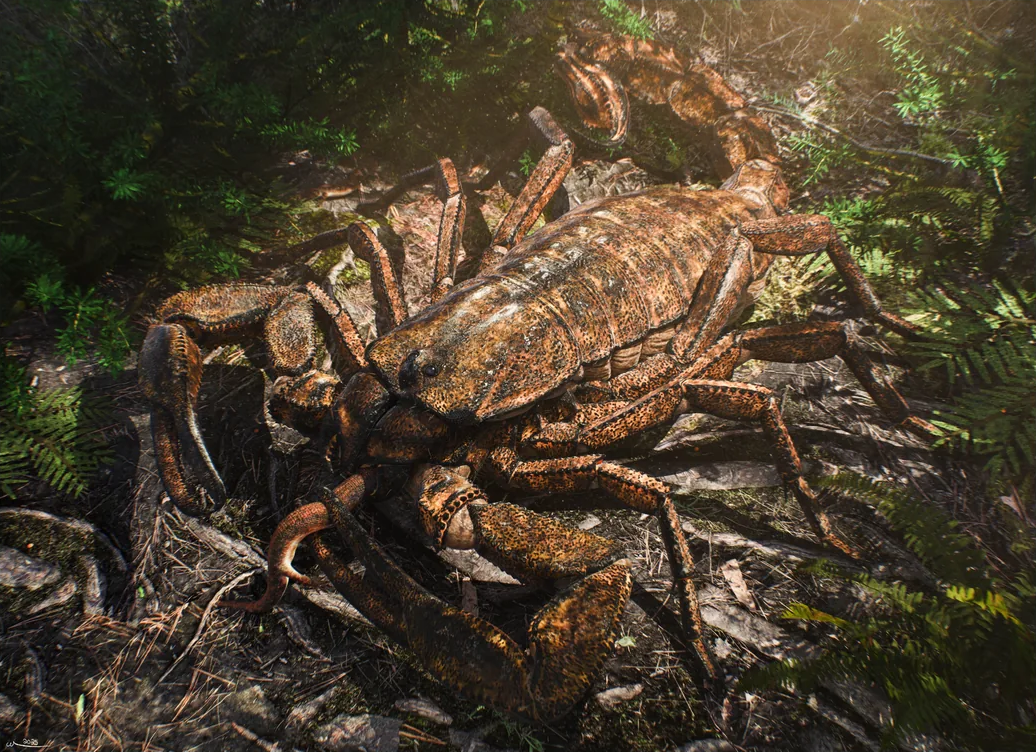
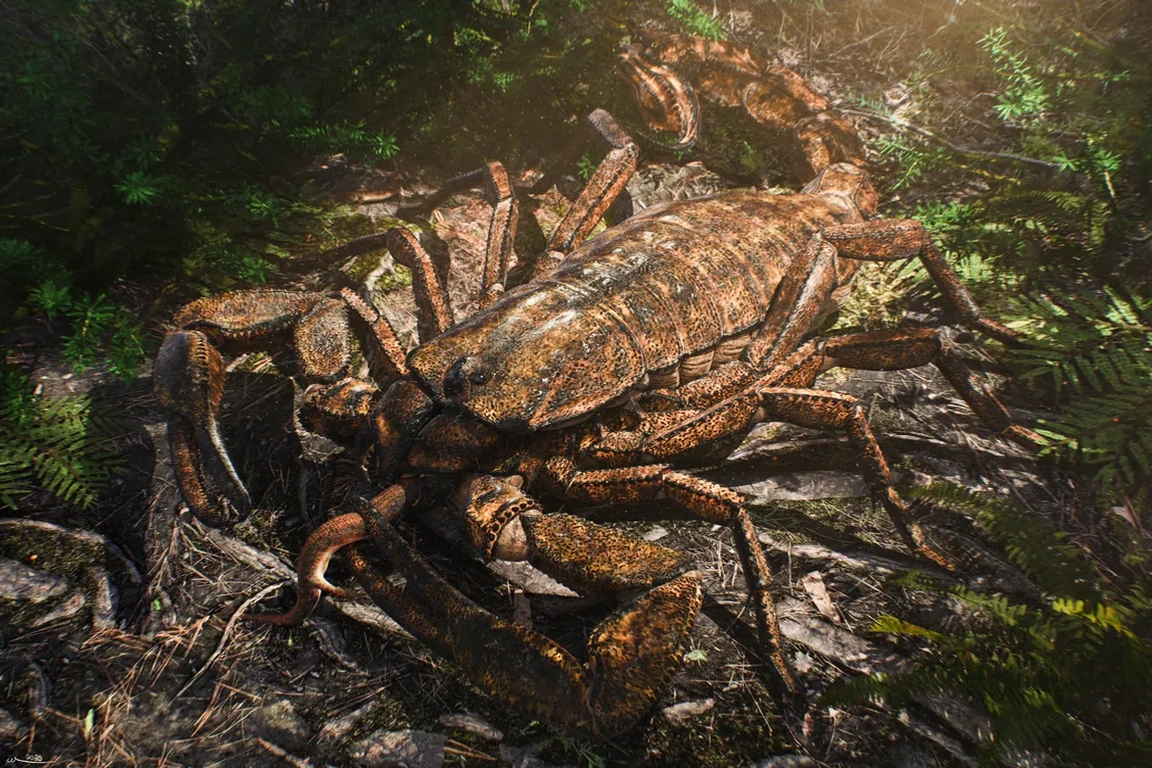
Restore uniform image frames and use selected frontal Edestus; build 1000008

diff --git a/app.js b/app.js
@@ -541,20 +541,12 @@
     });
     $('favorites-count').textContent = state.favorites.size;
   }
-  // Preserve the complete approved crops without letterboxing in 3:2 frames.
-  function imageFrameStyle(dino) {
-    const ratios = {
-      'pulmonoscorpius-kirktonensis': '1036 / 752',
-      'arthropleura-armata': '996 / 752'
-    };
-    return ratios[dino.id] ? '--picture-ratio: ' + ratios[dino.id] : '';
-  }
   function renderGallery() {
     const visible = filteredDinosaurs(dinosaurs, state);
     $('gallery').innerHTML = visible.map((dino, index) => {
       const text = copy(dino);
       return `<article class="dino-card">
-          <div class="card-picture" style="${imageFrameStyle(dino)}"><img class="${atlasImageClass(dino)}" src="${escapeHtml(dino.image.src)}" alt="${escapeHtml(localized(dino.image.alt))}" width="1536" height="1024" ${index > 1 ? 'loading="lazy"' : ''} decoding="async"></div>
+          <div class="card-picture"><img class="${atlasImageClass(dino)}" src="${escapeHtml(dino.image.src)}" alt="${escapeHtml(localized(dino.image.alt))}" width="1536" height="1024" ${index > 1 ? 'loading="lazy"' : ''} decoding="async"></div>
           <div class="card-body"><div class="card-title-row"><h3><a class="card-link" id="card-${dino.id}" href="#dinosaurus/${dino.id}">${escapeHtml(text.displayName)}</a></h3>${favoriteButton(dino, 'card-favorite')}</div><p class="scientific-name">${escapeHtml(dino.scientificName)}</p>
           <div class="card-meta"><span class="period-tag">${PERIODS[dino.period]}</span><span class="animal-kind">${CATEGORY_LABELS[categoryOf(dino)]}</span><span>${escapeHtml(text.ageLabel)}</span></div>
           <p class="card-location">${escapeHtml(text.location)}</p><p class="card-summary">${escapeHtml(text.cardSummary)}</p><span class="card-open">Prozkoumat →</span></div>
@@ -743,7 +735,7 @@
     const question = quiz.questions[quiz.index];
     const dino = byId.get(question.answerId);
     $('quiz-content').innerHTML = `<p class="quiz-progress-label">Otázka ${quiz.index + 1} z ${quiz.questions.length} · Bez časového limitu</p><progress class="quiz-progress" max="${quiz.questions.length}" value="${quiz.index}" aria-label="Dokončené otázky"></progress>
-      <div class="quiz-picture" style="${imageFrameStyle(dino)}"><img data-image-viewer src="${escapeHtml(dino.image.src)}" width="1536" height="1024" alt="Pracovní rekonstrukce pravěkého zvířete. Vyber jeho jméno z možností pod obrázkem.">${imageZoomButton()}</div>
+      <div class="quiz-picture"><img data-image-viewer src="${escapeHtml(dino.image.src)}" width="1536" height="1024" alt="Pracovní rekonstrukce pravěkého zvířete. Vyber jeho jméno z možností pod obrázkem.">${imageZoomButton()}</div>
       <button id="quiz-hint" type="button" class="button button-quiet hint-button" aria-expanded="${quiz.hintRevealed}" aria-controls="quiz-hint-text">${quiz.hintRevealed ? 'Skrýt nápovědu' : 'Potřebuji nápovědu'}</button><p id="quiz-hint-text" class="hint-text" ${quiz.hintRevealed ? '' : 'hidden'}>${escapeHtml(copy(dino).quizHint)}</p>
       <div class="quiz-answers" role="group" aria-label="Vyber jméno zvířete">${question.optionIds.map((id, index) => `<button type="button" class="quiz-answer" data-answer="${id}"><span class="answer-letter" aria-hidden="true">${String.fromCharCode(65 + index)}</span><span class="answer-name">${escapeHtml(copy(byId.get(id)).displayName)}</span></button>`).join('')}</div>
       <div class="quiz-feedback" id="quiz-feedback" role="status" aria-live="polite" aria-atomic="true"></div>

diff --git a/style.css b/style.css
@@ -111,7 +111,7 @@ main { min-height: 320px; }
 .card-link::after { content: ''; position: absolute; inset: 0; border-radius: 20px; }
 .card-link:focus-visible { outline: none; }
 .card-link:focus-visible::after { outline: 3px solid var(--accent); outline-offset: -5px; }
-.card-picture { aspect-ratio: var(--picture-ratio, 3 / 2); overflow: hidden; background: var(--image-bg); }
+.card-picture { aspect-ratio: 3 / 2; overflow: hidden; background: var(--image-bg); }
 .card-picture img { width: 100%; height: 100%; object-fit: contain; }
 .card-body { padding: 18px 19px 20px; }
 .card-title-row { display: flex; align-items: flex-start; justify-content: space-between; gap: 12px; margin-bottom: 4px; }
@@ -221,7 +221,7 @@ figcaption { font-size: .76rem; color: var(--muted); margin-top: 9px; }
 .quiz-progress::-webkit-progress-bar { background: var(--soft); }
 .quiz-progress::-webkit-progress-value { background: var(--accent); }
 .quiz-progress::-moz-progress-bar { background: var(--accent); }
-.quiz-picture { position: relative; aspect-ratio: var(--picture-ratio, 3 / 2); min-height: 0; border: 1px solid var(--line); border-radius: 20px; overflow: hidden; background: var(--image-bg); margin-bottom: 17px; }
+.quiz-picture { position: relative; aspect-ratio: 3 / 2; min-height: 0; border: 1px solid var(--line); border-radius: 20px; overflow: hidden; background: var(--image-bg); margin-bottom: 17px; }
 .quiz-picture img { position: absolute; inset: 0; display: block; width: 100%; height: 100%; min-height: 0; object-fit: contain; }
 .quiz-answers { display: grid; gap: 10px; }
 .quiz-answer { display: flex; align-items: center; gap: 12px; min-height: 56px; padding: 13px 16px; font-size: 1rem; text-align: left; background: var(--surface); color: var(--text); border: 1px solid var(--line); border-radius: 13px; }

diff --git a/docs/VISUAL-REFRESH-BATCH08.md b/docs/VISUAL-REFRESH-BATCH08.md
@@ -1,0 +1,23 @@
+# Dávka 08 — jednotné rámečky a vybraný čelní Edestus
+
+27. října 2026, pouze `feature/paleozoic-1.0.0`. Základ `33a10d548c58520db0eff29fa11dbf25cfb7122d`, kandidát build **1000008**.
+
+## Přijatý směr
+
+Uživatel odmítl vyšší rámečky z 1000007 i Edesta s čepelemi působícími posunutě do strany. Po náhledech požádal u dvou původních ilustrací jen změnit poměr/velikost. Výslovně byl upozorněn na mírné vodorovné roztažení. Následně vybral čelní pohled Edesta, který zdůrazňuje neobvyklý chrup.
+
+- Pulmonoscorpius: aktivní původní ořez 1036 × 752 přepočten na 1152 × 768.
+- Arthropleura: aktivní původní ořez 996 × 752 přepočten na 1152 × 768.
+- Oba: Lanczos a WebP quality 94; bez AI generování, doplnění pozadí či dalšího ořezu. Jde o změnu proporcí, nikoli bezeztrátovou změnu. Celá původní kompozice a autorské podpisy zůstávají v obraze. Kredity Prehistorica CM, CC BY 4.0 a odkazy zachované, popis úprav aktualizován.
+- Edestus: uživatelem vybraný čelní AI návrh `exec-d6ec8ef1-be4d-4515-b5de-5f98ac95a8c2.png`, převeden z 1536 × 1024 na 1152 × 768. Středové čepele jsou zvýrazněné, ale přesné ztvárnění jednotlivých korunek a geometrie není vědecky potvrzené. Vizuální výběr uživatele se nerovná vědeckému ověření. Nejistota výslovně uvedena v obrazové poznámce. Nový návrh se v tomto kroku negeneroval.
+- Odstraněny výjimky poměru v aplikaci; karty a kvíz opět jednotně 3:2.
+
+## Zachování obsahu
+
+Všechny tři předchozí aktivní obrazy zálohovány v `docs/backups/visual-refresh-08/images/`, vedle jsou původní metadata, hashe 112 obrazů a kontrolní otisk všech neobrazových údajů. Zůstává 112 druhů, všechna ID, texty, předčítání a ostatní funkce. 109 dalších obrazů beze změny. V databázi upraveny pouze tři obrazové poznámky. Výstupní otisky: `docs/visual-refresh-08.json`.
+
+## Ověření
+
+Lokální `npm test` prošel. Kontroly nově ověřují zálohy, 109 nezměněných obrazů a všechny neobrazové údaje. UI kontroly obou karet a obou zvířat v kvízu nyní očekávají společný poměr 3:2. Finální CI, podepsané APK a zkouška na telefonu zatím čekají.
+
+Další práce: sedm permských oprav (Dimetrodon, Inostrancevia, Scutosaurus, Mesosaurus, Diplocaulus, Helicoprion, Estemmenosuchus), dávky nejvýše 5 + 2, jednotlivé kontroly a zálohy. Neslučovat do main.

diff --git a/PROJECT_STATUS.md b/PROJECT_STATUS.md
@@ -1,3 +1,5 @@
+> **27. 10. 2026 — dávka 08 / kandidát 1000008:** Uživatel vybral čelního Edesta. Pulmonoscorpius a Arthropleura jsou původní ilustrace pouze přepočítané na 1152 × 768, bez generování; jednotné rámečky 3:2 obnoveny. Zálohy vytvořeny, lokální testy prošly. CI a podepsané APK zatím nepotvrzené. Sedm permských náhrad stále zbývá. [Předání](docs/VISUAL-REFRESH-BATCH08.md). Neslučovat do main.
+
 > **Další upřesnění 27. 10. 2026:** Uživatel neviděl zobrazené náhledy. Žádá u Pulmonoscorpia a Arthropleury jen změnu poměru/velikosti, u Edesta opravit čelist. Připravené pracovní resamplované kopie původních aktivních WebP na 1152×768 pomocí Lanczos, bez generování, doplňování pozadí či ořezu (vodorovná změna proporcí oproti původním poměrům přibližně +8,9 % a +13,3 %). Aktivní soubory a vyšší rámečky zatím NEZMĚNĚNY — před integrací vrátit jednotný rám 3:2. Edestus: jeden cílený obrazový edit stávající verze z 1000007, zdroj náhledu `exec-e90296cc-3651-4080-a970-b3f2b9c98ac6.png`; neoznačovat za anatomicky potvrzený ani uživatelem schválený. Náhledy nejsou nové APK. Předchozí rozšiřování pozadí není zvolený postup. Další generování bez zpětné vazby neprovádět kvůli úspoře kreditů.
 
 > **27. 10. 2026 — zpětná vazba po 1000007:** Uživatel odmítl vyšší rámečky Pulmonoscorpia a Arthropleury (chce stejný formát 3:2 jako ostatní, samotné původní ilustrace se mu líbí) a Edesta s čepelemi působícími posunutě k jedné straně. Schválen postup: nejdřív náhledy přímo v chatu, bez dalšího APK a bez duplicitního generování jen kvůli náhledu. Vytvořen po jednom náhledu: rozšíření pozadí Pulmonoscorpia a Arthropleury a nový frontální Edestus. Náhledy nebyly vloženy do aplikace. Generování u obou licencovaných ilustrací změnilo i detaily/ostrost a podpisy; nesmí být označeno jako bezeztrátové doplnění pozadí. U frontálního Edesta stále nepřesvědčivé provedení jednotlivých korunek a čepelí; neoznačovat za vědecky schválený. Před další integrací zachovat originály a kredity, obnovit jednotný rám 3:2 a ověřit řešení bez změny zvířat. Poslední dodané APK zůstává 1000007, sedm permských oprav čeká. Žádná změna runtime ani sloučení do main v této náhledové fázi.

diff --git a/docs/VISUAL-REFRESH-1.0.0.md b/docs/VISUAL-REFRESH-1.0.0.md
@@ -1,3 +1,5 @@
+> **27. 10. 2026 — dávka 08 / kandidát 1000008:** Uživatel vybral čelního Edesta. Pulmonoscorpius a Arthropleura jsou původní ilustrace pouze přepočítané na 1152 × 768, bez generování; jednotné rámečky 3:2 obnoveny. Zálohy vytvořeny, lokální testy prošly. CI a podepsané APK zatím nepotvrzené. Sedm permských náhrad stále zbývá. [Předání](VISUAL-REFRESH-BATCH08.md). Neslučovat do main.
+
 > **27. 10. 2026 — dávka 07 / kandidát 1000007:** Oprava vyplnění karet a kvízu pro Pulmonoscorpia a Arthropleuru bez zásahu do obrazů. Nový návrh Edesta z šikmého pohledu. Lokální i finální CI testy obsahu a rozhraní prošly. Podepsané APK 1000007 ověřeno v CI 40500576605 s původním certifikátem. Uživatel zatím neschválil nový vzhled. Viz [předání dávky 07](VISUAL-REFRESH-BATCH07.md). Pouze pracovní větev, neslučovat do main.
 
 > **Aktuálně 27. 10. 2026 — dávka 06 / 1000006:** Dva přesné ořezy (Pulmonoscorpius a Arthropleura) a nová rekonstrukce Edesta. 112 druhů zachováno. Zbývá sedm permských náhrad; finální CI testy databáze i rozhraní prošly. Podepsané APK 1000006 je hotové, původní certifikát a přesný obsah ověřeny v CI 40469603728. Edestus i zkouška aktualizace na telefonu čekají na hodnocení uživatele. [Předání](VISUAL-REFRESH-BATCH06.md). Neslučovat do main. Starší údaje níže jsou historie.
